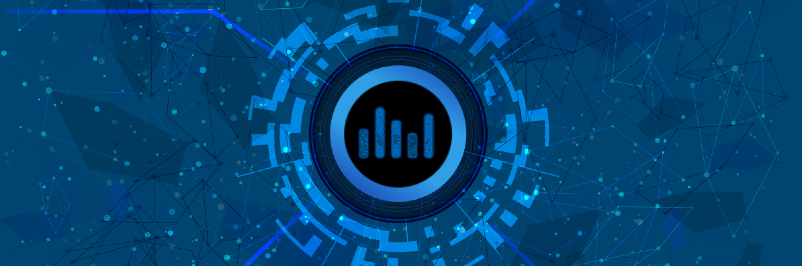
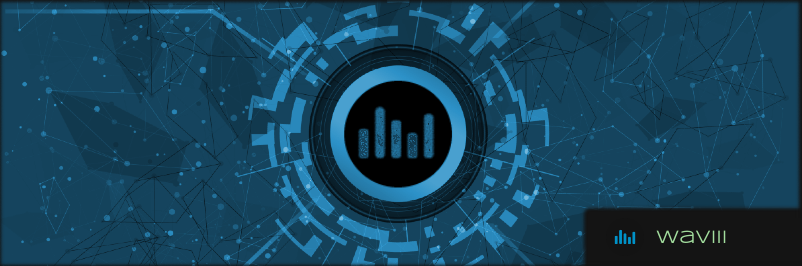
Token.gif

diff --git a/README.md b/README.md
@@ -32,10 +32,12 @@ Fully Decentralized ERC-20 Token, Wallet, Exchange & Price Chart. React frontend
 
 #### SmartContracts
 
-waviii.io is powered by two smartcontracts, both of which are deployed to the Ethereum Mainnet blockchain. The first is the waviii ERC-20 Token itself. The second contract is the token swap, the single source for obtaining the waviii token in exchange for ETH. Most of the one million originally minted waviii Tokens still reside on this contract, they can be traded at any time and posess real world value pegged to a fraction of ETH. 
+waviii.io is powered by two smartcontracts, both of which are deployed to the Ethereum Mainnet blockchain. The first is the waviii ERC-20 Token itself.
 
 > waviii Token
-> [<img src="src/assets/img/waviii_token.png">](https://waviii.io/)
+> [<img src="src/assets/img/Token.gif">](https://github.com/MBrassey/waviii-token)
+
+The second contract is the token swap, the single source for obtaining the waviii token in exchange for ETH. Most of the one million originally minted waviii Tokens still reside on this contract, they can be traded at any time and posess real world value pegged to a fraction of ETH. 
 
 #### IPFS
 
